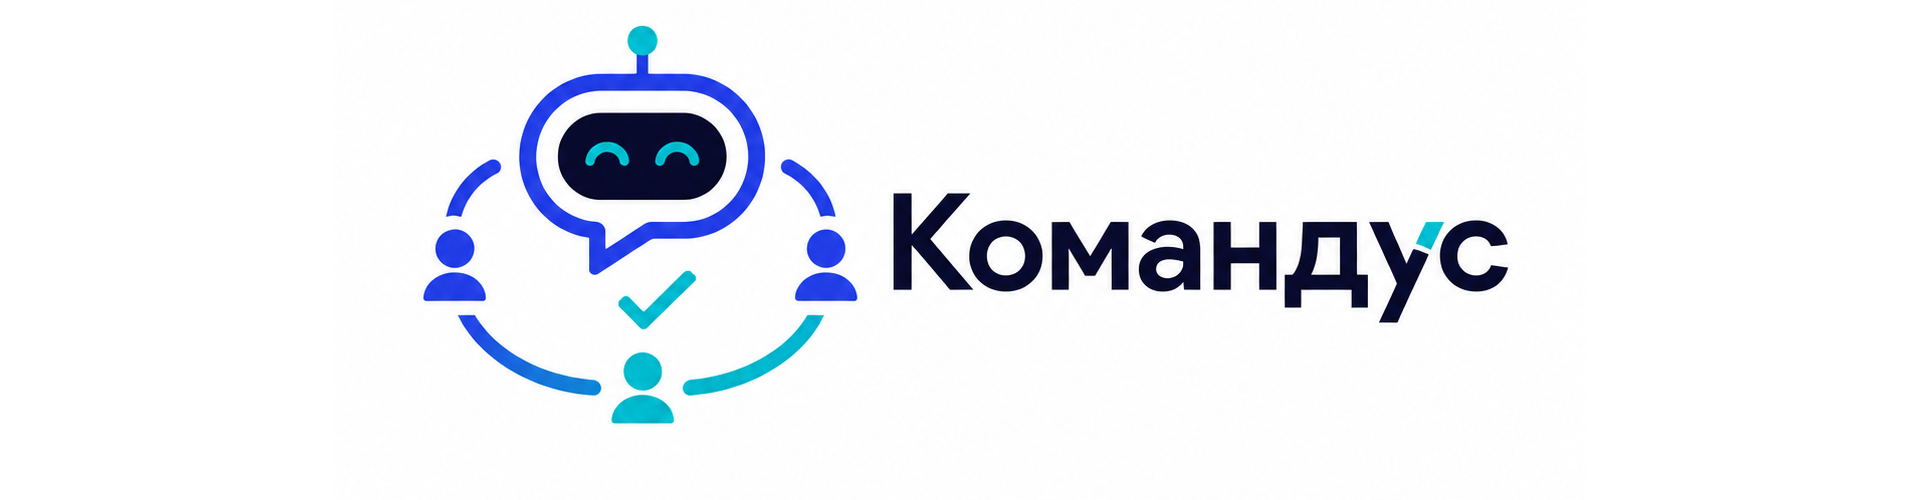
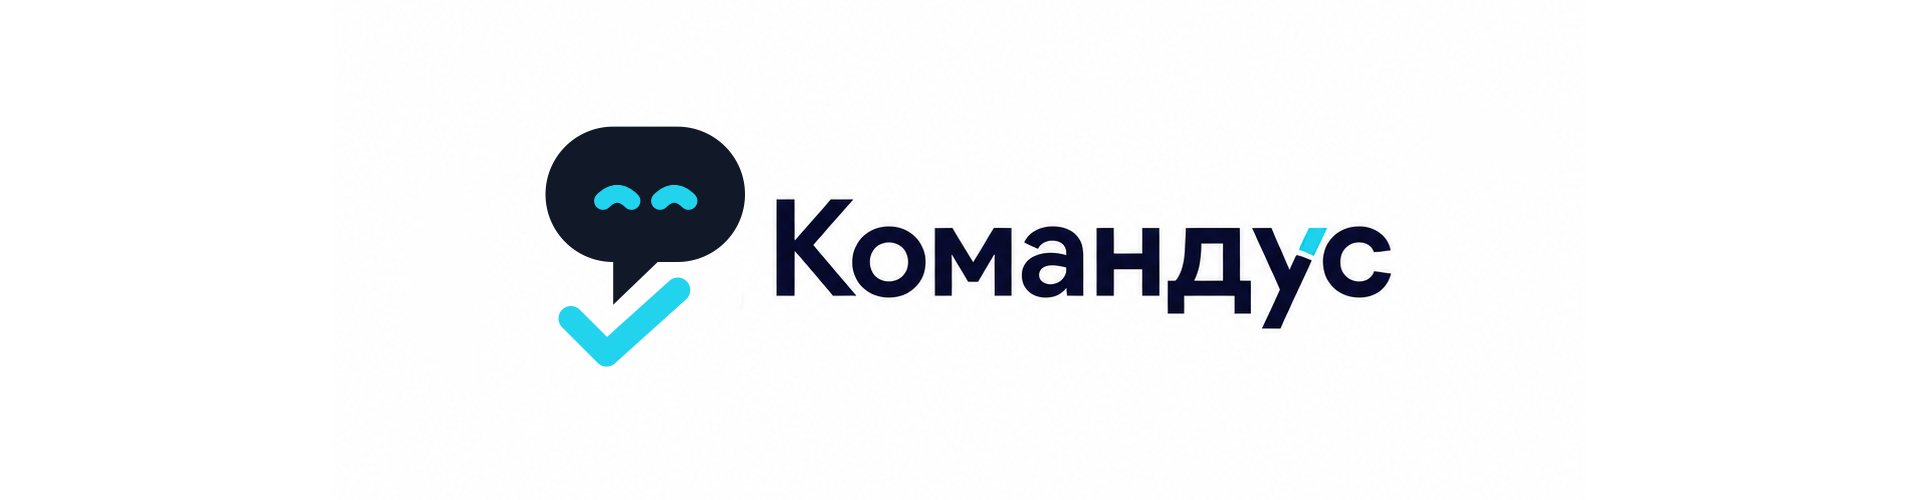
edit README.md

Changed region(s): [[0.2188, 0.06, 0.7812, 0.87]]

diff --git a/README.md b/README.md
@@ -2,13 +2,13 @@
   <img src="assets/banner.png" alt="Vkatun banner" />
 </p>
 
-# profi-rsv-KYSS
+# <img src="assets/logo.png" alt="Komandus Logo" width="32" style="vertical-align:middle;"/> Командус
 
 ## 👨💻 KYSS
 
 ## 👥 Команда:
-- [Маслов Даниил](https://t.me/Danyayokich) ([GitHub](https://github.com/danyayok)) - Капитан команды (Team Lead), Backend Developer
-- [Васильев Артём](https://t.me/avslyv) ([GitHub](https://github.com/avslyv)) - Tech Lead, Product Owner
+- [Маслов Даниил](https://t.me/Danyayokich) ([GitHub](https://github.com/danyayok)) - Капитан команды / Team Lead, Backend Developer
+- [Васильев Артём](https://t.me/avslyv) ([GitHub](https://github.com/avslyv)) - Tech Lead / Technical Product Manager
 - [Ржевский Иван](https://t.me/jeanrezerford) ([GitHub](https://github.com/BigDuckteams)) - Frontend Developer
 - [Подколзин Алексей](https://t.me/fillllka) ([GitHub](https://github.com/Fosh1er)) - ML Engineer
 - [Юденков Павел](https://t.me/kitkeyll) ([GitHub](https://github.com/kitkey)) - LLM Engineer
